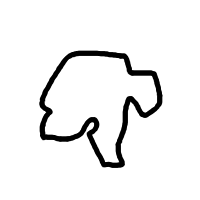
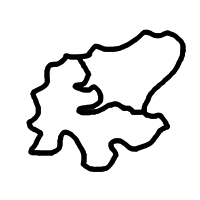
Basic Contour Mapping

Changed region(s): [[0.12, 0.12, 0.93, 0.87]]

diff --git a/code/main.py b/code/main.py
@@ -1,16 +1,36 @@
+
+# import packages
 import cv2 as cv
+import numpy as np
 import matplotlib.pyplot as plt
+
 img = cv.imread('./resources/example.png', cv.IMREAD_UNCHANGED)
 
-# #make mask of where the transparent bits are
-# trans_mask = img[:,:,3] == 0
+opac=cv.split(img)[3]
+hist = cv.calcHist([opac],[0],None,[256],[0,256])
 
-# #replace areas of transparency with white and not transparent
-# img[trans_mask] = [255, 255, 255, 255]
+# plotting opacity histogram
 
+# plt.plot(hist)
+# plt.title("Opacity Histogram")
+# plt.xlim([250,256])
+# plt.show()
+
+ret,thresh1 = cv.threshold(opac,253,255,cv.THRESH_BINARY)
+
+
+
+contours, hierarchy = cv.findContours(thresh1, cv.RETR_TREE, cv.CHAIN_APPROX_SIMPLE)
+
+# code block to replace transparent pixels with not transparent stuff.
+trans_mask = img[:,:,3] == 0
+img[trans_mask] = [255, 255, 255, 255]
+
+
+
+cv.drawContours(img,contours,0,(0,255,0),1)
+cv.imshow("contours",img)
+k = cv.waitKey(0)
+# code block to show images
 # cv.imshow("Display window", img)
-# k = cv.waitKey(0)
 
-plt.imshow(img)
-plt.show()
-print("success")

diff --git a/code/binarization.py b/code/binarization.py
@@ -1,0 +1,2 @@
+import cv2 as cv
+

diff --git a/README.md b/README.md
@@ -2,8 +2,12 @@
  Map making aid for enthusiasts
 
  TODO:
- findContor() to output (x,y) at highest resolution
- multiple chubks identification and output (x,y) for each chunk
- vectorize (https://www.w3.org/TR/SVG2/paths.html#PathDataEllipticalArcCommands)
- write to svg file
- multiple chunks to separate svg files
+ findContor() to output (x,y) at highest resolution\n
+ multiple chubks identification and output (x,y) for each chunk \n
+ vectorize (https://www.w3.org/TR/SVG2/paths.html#PathDataEllipticalArcCommands)\n
+ write to svg file\n
+ multiple chunks to separate svg files\n
+
+\n\n
+https://docs.opencv.org/4.x/d9/d8b/tutorial_py_contours_hierarchy.html
+
